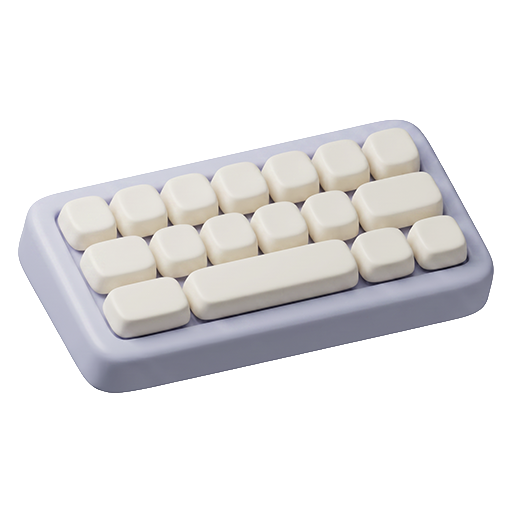
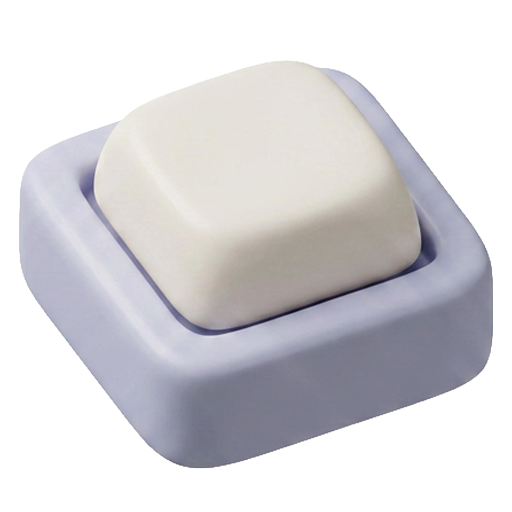
Improve store polish and recover iOS audio

diff --git a/utils/sound.ts b/utils/sound.ts
@@ -1,5 +1,6 @@
 
 import { Haptics, ImpactStyle, NotificationType } from '@capacitor/haptics';
+import { App as CapacitorApp } from '@capacitor/app';
 
 interface SoundProfile {
     id: string;
@@ -146,35 +147,165 @@ class SoundController {
     private vibrationEnabled: boolean = true;
     private activeProfile: SoundProfile = PROFILES['snd-zen'];
     private lastTickTime: number = 0;
+    private recoveryPromise: Promise<void> | null = null;
+    private lastObservedContextTime: number = 0;
+    private lastObservedWallTime: number = 0;
 
     constructor() {
         if (typeof window !== 'undefined') {
-            const handleResume = () => {
-                if (this.ctx) {
-                    if ((this.ctx.state as string) === 'interrupted') {
-                        try {
-                            this.ctx.close();
-                        } catch (e) {}
-                        this.ctx = null;
-                    } else if (this.ctx.state === 'suspended') {
-                        this.ctx.resume().catch(() => {});
-                    }
-                }
-            };
+            const handleResume = () => void this.recoverAudio();
             window.addEventListener('focus', handleResume);
+            window.addEventListener('pageshow', handleResume);
             document.addEventListener('visibilitychange', () => {
                 if (document.visibilityState === 'visible') {
                     handleResume();
                 }
             });
+
+            void CapacitorApp.addListener('appStateChange', ({ isActive }) => {
+                if (isActive) handleResume();
+            }).catch(() => {
+                // The web preview does not need the native lifecycle bridge.
+            });
+
             const unlock = () => {
-                if (this.ctx && this.ctx.state === 'suspended') {
-                    this.ctx.resume().catch(() => {});
+                const context = this.ctx;
+                if (!context) return;
+
+                const state = context.state as string;
+                if (state === 'interrupted' || state === 'suspended') {
+                    void this.recoverAudio();
+                } else if (state === 'running' && this.isContextLikelyFrozen(context)) {
+                    const recoveredContext = this.getCtx();
+                    void recoveredContext.resume().catch(() => {});
                 }
             };
             window.addEventListener('click', unlock, { capture: true, passive: true });
             window.addEventListener('touchstart', unlock, { capture: true, passive: true });
         }
+    }
+
+    private wait(ms: number): Promise<void> {
+        return new Promise(resolve => window.setTimeout(resolve, ms));
+    }
+
+    private async settleAudioOperation(operation: Promise<void>, timeoutMs: number = 350): Promise<void> {
+        await Promise.race([
+            operation.catch(() => {}),
+            this.wait(timeoutMs)
+        ]);
+    }
+
+    private observeContext(context: AudioContext) {
+        this.lastObservedContextTime = context.currentTime;
+        this.lastObservedWallTime = performance.now();
+    }
+
+    private isContextLikelyFrozen(context: AudioContext): boolean {
+        if ((context.state as string) !== 'running' || this.lastObservedWallTime === 0) return false;
+
+        const wallElapsed = performance.now() - this.lastObservedWallTime;
+        const audioElapsed = context.currentTime - this.lastObservedContextTime;
+        return wallElapsed > 500 && audioElapsed < 0.002;
+    }
+
+    private async isContextClockAdvancing(context: AudioContext): Promise<boolean> {
+        if (this.ctx !== context || (context.state as string) !== 'running') return false;
+
+        const startTime = context.currentTime;
+        await this.wait(120);
+        return this.ctx === context
+            && (context.state as string) === 'running'
+            && context.currentTime - startTime > 0.002;
+    }
+
+    private discardContext(context: AudioContext | null = this.ctx) {
+        if (!context || (this.ctx && this.ctx !== context)) return;
+
+        this.ctx = null;
+        this.profileOutput = null;
+        this.profileOutputContext = null;
+        this.lastObservedContextTime = 0;
+        this.lastObservedWallTime = 0;
+
+        if ((context.state as string) !== 'closed') {
+            void context.close().catch(() => {});
+        }
+    }
+
+    private createContext(): AudioContext {
+        const AudioContextClass = window.AudioContext || (window as any).webkitAudioContext;
+        const context: AudioContext = new AudioContextClass();
+        this.ctx = context;
+        this.observeContext(context);
+
+        context.addEventListener('statechange', () => {
+            if (this.ctx !== context) return;
+
+            if ((context.state as string) === 'interrupted') {
+                // A notification sound can briefly retain the audio session, so
+                // try once promptly and once more after the interruption settles.
+                window.setTimeout(() => void this.recoverAudio(), 180);
+                window.setTimeout(() => void this.recoverAudio(), 900);
+            }
+        });
+
+        return context;
+    }
+
+    private async repairContext(): Promise<void> {
+        const context = this.ctx;
+        if (!context || !this.soundEnabled) return;
+
+        if ((context.state as string) === 'closed') {
+            this.discardContext(context);
+            return;
+        }
+
+        if ((context.state as string) === 'interrupted' || context.state === 'suspended') {
+            await this.settleAudioOperation(context.resume());
+        }
+
+        if (await this.isContextClockAdvancing(context)) {
+            this.observeContext(context);
+            return;
+        }
+
+        // WebKit can report `running` while currentTime is frozen. A controlled
+        // suspend/resume repairs that state on many iOS versions.
+        if (this.ctx === context) {
+            try {
+                if ((context.state as string) === 'running') {
+                    await this.settleAudioOperation(context.suspend());
+                }
+                await this.wait(40);
+                await this.settleAudioOperation(context.resume());
+            } catch (_) {}
+        }
+
+        if (await this.isContextClockAdvancing(context)) {
+            this.observeContext(context);
+            return;
+        }
+
+        // Final fallback: rebuild only the audio engine. Gameplay state and the
+        // selected sound profile live outside the AudioContext and are preserved.
+        if (this.ctx === context) {
+            this.discardContext(context);
+            const replacement = this.createContext();
+            await this.settleAudioOperation(replacement.resume());
+            this.observeContext(replacement);
+        }
+    }
+
+    recoverAudio(): Promise<void> {
+        if (!this.ctx || !this.soundEnabled) return Promise.resolve();
+        if (this.recoveryPromise) return this.recoveryPromise;
+
+        this.recoveryPromise = this.repairContext().finally(() => {
+            this.recoveryPromise = null;
+        });
+        return this.recoveryPromise;
     }
 
     setEnabled(enabled: boolean) {
@@ -200,32 +331,27 @@ class SoundController {
         }
     }
 
-    private getCtx() {
-        if (this.ctx && (this.ctx.state as string) === 'interrupted') {
-            try {
-                this.ctx.close();
-            } catch (e) {}
-            this.ctx = null;
+    private getCtx(): AudioContext {
+        let context = this.ctx;
+
+        if (context && (
+            (context.state as string) === 'interrupted'
+            || (context.state as string) === 'closed'
+            || this.isContextLikelyFrozen(context)
+        )) {
+            this.discardContext(context);
+            context = null;
         }
 
-        if (!this.ctx) {
-            const AudioContext = window.AudioContext || (window as any).webkitAudioContext;
-            this.ctx = new AudioContext();
-            
-            this.ctx.addEventListener('statechange', () => {
-                if (this.ctx && (this.ctx.state as string) === 'interrupted') {
-                    try {
-                        this.ctx.close();
-                    } catch (e) {}
-                    this.ctx = null;
-                }
-            });
+        if (!context) {
+            context = this.createContext();
         }
 
-        if (this.ctx && this.ctx.state === 'suspended') {
-            this.ctx.resume().catch(() => {});
+        if (context.state === 'suspended') {
+            void context.resume().catch(() => {});
         }
-        return this.ctx;
+        this.observeContext(context);
+        return context;
     }
 
     /**

diff --git a/components/screens/StoreScreen.tsx b/components/screens/StoreScreen.tsx
@@ -235,6 +235,7 @@ export const StoreScreen: React.FC<StoreScreenProps> = ({
                 const isPurchased = purchasedSoundPacks.includes(pack.id);
                 const isSelected = selectedSoundPackId === pack.id;
                 const isInfoActive = activeInfoId === pack.id;
+                const useLargerArtwork = pack.id === 'snd-mech' || pack.id === 'snd-koto';
                 
                 const delay = activeTab === 'all' 
                     ? (3 + STATIC_BACKGROUNDS.length + idx) * 5
@@ -267,6 +268,9 @@ export const StoreScreen: React.FC<StoreScreenProps> = ({
                                         loading="lazy"
                                         decoding="async"
                                         className={`${isPurchased ? 'w-[42px] h-[42px]' : 'w-[32px] h-[32px]'} max-w-[70%] max-h-[70%] object-contain select-none pointer-events-none`}
+                                        style={{
+                                            transform: `scale(${(isPurchased ? 1.15 : 1) * (useLargerArtwork ? 1.1 : 1)})`
+                                        }}
                                     />
                                 </div>
                                 <ItemFooter isPurchased={isPurchased} isSelected={isSelected} cost={pack.cost} />
@@ -299,7 +303,12 @@ export const StoreScreen: React.FC<StoreScreenProps> = ({
                                 className={`w-full aspect-square rounded-2xl shadow-sm flex flex-col items-stretch relative overflow-hidden transition-all bg-gradient-to-t from-stone-100 to-white dark:bg-none dark:bg-stone-800 border ${isSelected ? 'border-stone-600 dark:border-stone-400 scale-105 z-10' : 'border-transparent active:scale-95'}`}
                             >
                                 <div className={`flex-1 flex items-center justify-center w-full`}>
-                                    <span className={`text-3xl font-bold ${num.uiClass}`}>5</span>
+                                    <span
+                                        className={`text-3xl font-bold ${num.uiClass}`}
+                                        style={{ transform: `scale(${isPurchased ? 1.15 : 1})` }}
+                                    >
+                                        5
+                                    </span>
                                 </div>
                                 <ItemFooter isPurchased={isPurchased} isSelected={isSelected} cost={num.cost} />
                             </button>
@@ -387,8 +396,8 @@ export const StoreScreen: React.FC<StoreScreenProps> = ({
 
              <div 
                 ref={scrollContainerRef}
-                className="flex-1 w-full overflow-y-auto overflow-x-hidden px-6 pb-6 hide-scrollbar flex flex-col items-center relative"
-             >
+                className="scroll-edge-fade flex-1 w-full overflow-y-auto overflow-x-hidden px-6 pb-6 hide-scrollbar flex flex-col items-center relative"
+            >
                   <div className="w-full max-w-md pt-6">
                       <AnimatePresence initial={false} custom={direction} mode="popLayout">
                           {activeTab === 'all' && (

diff --git a/components/ui/Modals.tsx b/components/ui/Modals.tsx
@@ -605,7 +605,7 @@ export const SettingsModal: React.FC<SettingsModalProps> = ({ settings, onToggle
                     
                     {/* Render MAIN LIST if no doc active */}
                     {!activeDoc && (
-                        <div className="flex-1 overflow-y-auto px-6 pb-6 hide-scrollbar animate-fade-in min-h-0">
+                        <div className="scroll-edge-fade flex-1 overflow-y-auto px-6 pb-6 hide-scrollbar animate-fade-in min-h-0">
                             {/* Appearance */}
                             <div className="mb-6">
                                 <label className="block text-sm font-bold text-t-secondary uppercase tracking-widest mb-3 ml-1 transition-colors duration-300">Theme</label>
@@ -852,7 +852,7 @@ export const SettingsModal: React.FC<SettingsModalProps> = ({ settings, onToggle
                                     <div className="w-1 h-1 rounded-full bg-stone-300 dark:bg-stone-700 transition-colors duration-300" />
                                     <button onClick={() => { sounds.playClick(); setActiveDoc('terms'); }} className="transition-colors duration-300 px-2 py-1">Terms of Service</button>
                                 </div>
-                                <span className="text-[9px] text-stone-300 dark:text-stone-600 font-mono transition-colors duration-300">v3.8.6</span>
+                                <span className="text-[9px] text-stone-300 dark:text-stone-600 font-mono transition-colors duration-300">v3.8.18</span>
                             </div>
                         </div>
                     )}
@@ -874,7 +874,7 @@ export const SettingsModal: React.FC<SettingsModalProps> = ({ settings, onToggle
                             </div>
                             
                             {/* Document Text - This is Scrollable */}
-                            <div className="flex-1 overflow-y-auto p-6 min-h-0">
+                            <div className="scroll-edge-fade flex-1 overflow-y-auto p-6 min-h-0">
                                 <div className="text-stone-600 dark:text-stone-300 text-sm leading-relaxed whitespace-pre-wrap font-medium pb-8 transition-colors duration-300">
                                     {activeDoc === 'privacy' ? PRIVACY_POLICY_TEXT : TERMS_OF_SERVICE_TEXT}
                                 </div>

diff --git a/components/screens/DiamondShopScreen.tsx b/components/screens/DiamondShopScreen.tsx
@@ -84,7 +84,7 @@ export const DiamondShopScreen: React.FC<DiamondShopScreenProps> = ({
                 </div>
             </div>
 
-            <div className="flex-1 w-full overflow-y-auto px-6 pb-6 hide-scrollbar flex flex-col items-center relative z-10">
+            <div className="scroll-edge-fade flex-1 w-full overflow-y-auto px-6 pb-6 hide-scrollbar flex flex-col items-center relative z-10">
                 <div className="w-full max-w-md pt-2 mx-auto space-y-6">
                     {pepinoState.unlocked ? (
                         <FishTank onRewardClaim={handleRewardClaim} showIntro={shouldShowIntro()} />

diff --git a/components/screens/LevelsScreen.tsx b/components/screens/LevelsScreen.tsx
@@ -315,7 +315,7 @@ export const LevelsScreen: React.FC<LevelsScreenProps> = ({
             {/* Scrollable Content Area */}
             <div 
                 ref={scrollContainerRef}
-                className="flex-1 w-full overflow-y-auto px-6 pb-6 hide-scrollbar flex flex-col items-center relative"
+                className="scroll-edge-fade flex-1 w-full overflow-y-auto px-6 pb-6 hide-scrollbar flex flex-col items-center relative"
             >
                 {renderContent()}
                 <div className="h-safe-bottom w-full shrink-0" />

diff --git a/index.css b/index.css
@@ -187,6 +187,12 @@
   background: #ffffff;
 }
 
+/* Softens hard clipping edges beneath fixed headers while scrolling. */
+.scroll-edge-fade {
+  -webkit-mask-image: linear-gradient(to bottom, transparent 0, #000 14px, #000 100%);
+  mask-image: linear-gradient(to bottom, transparent 0, #000 14px, #000 100%);
+}
+
 /* SAFE HIGH-PERFORMANCE THEME TRANSITIONS
    Only transition specific classes that are bound to the theme variables, avoiding any interference with Framer Motion, animations, or layout. */
 html, body, #root,
